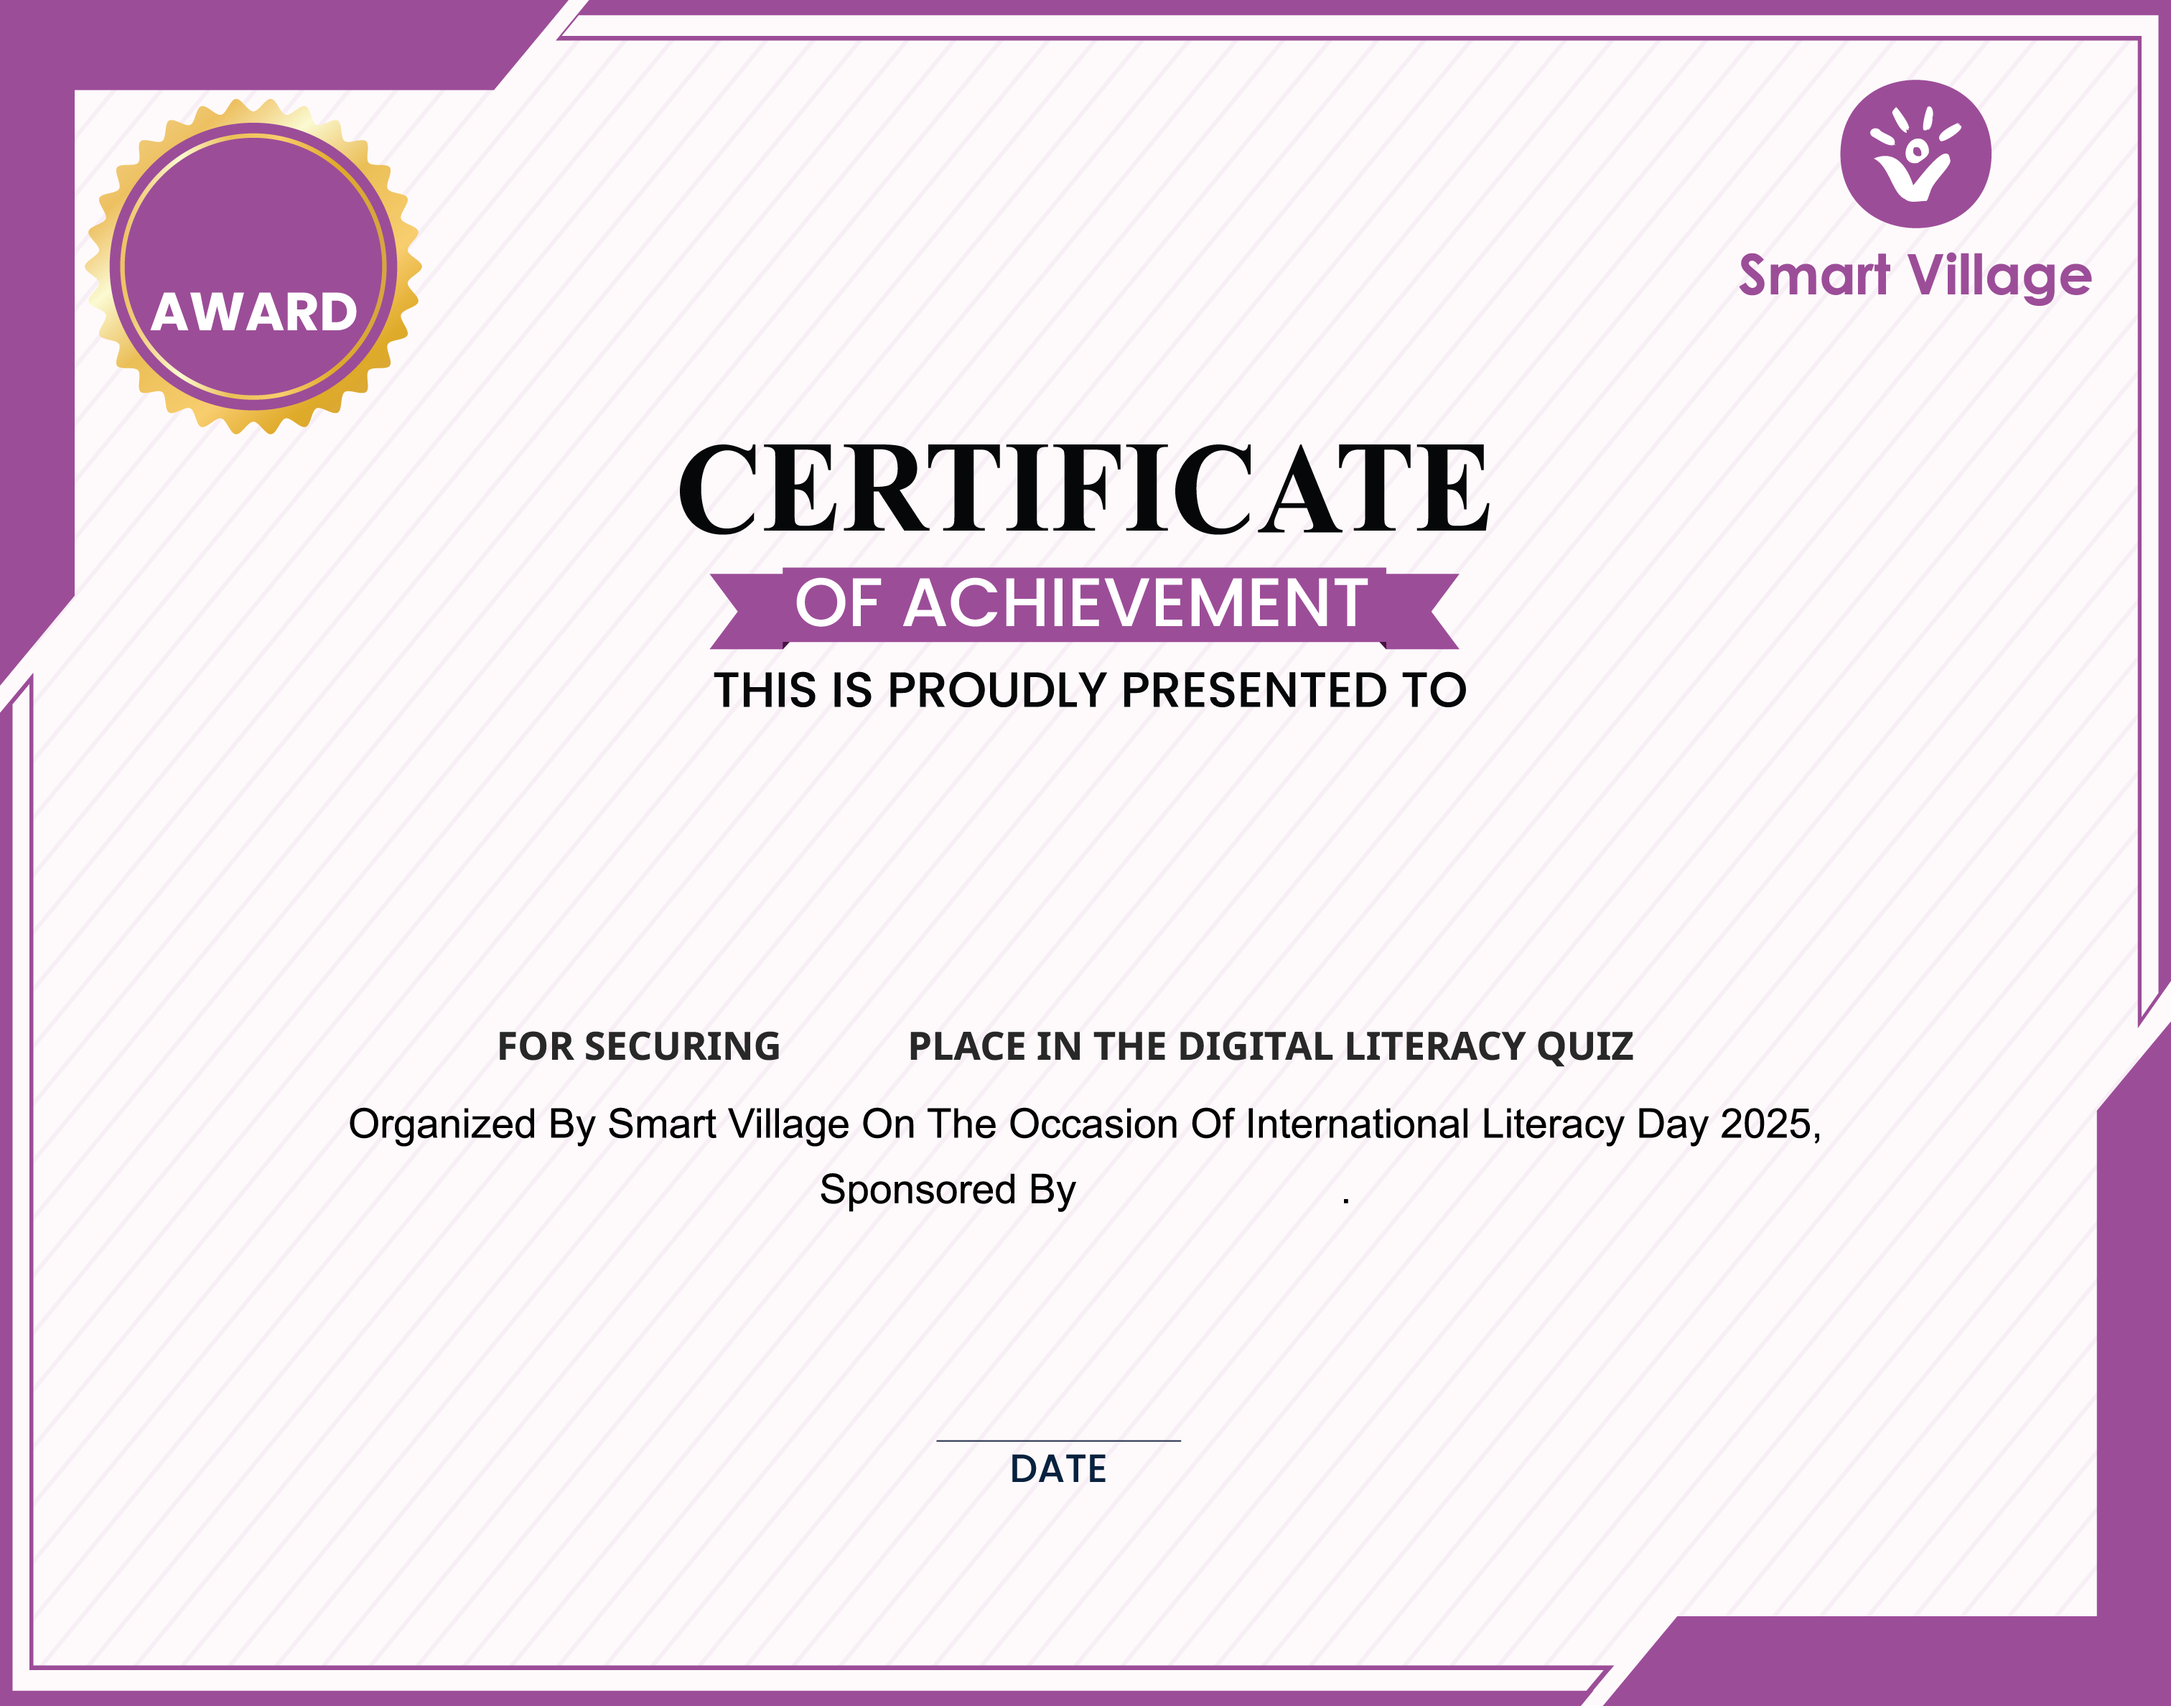
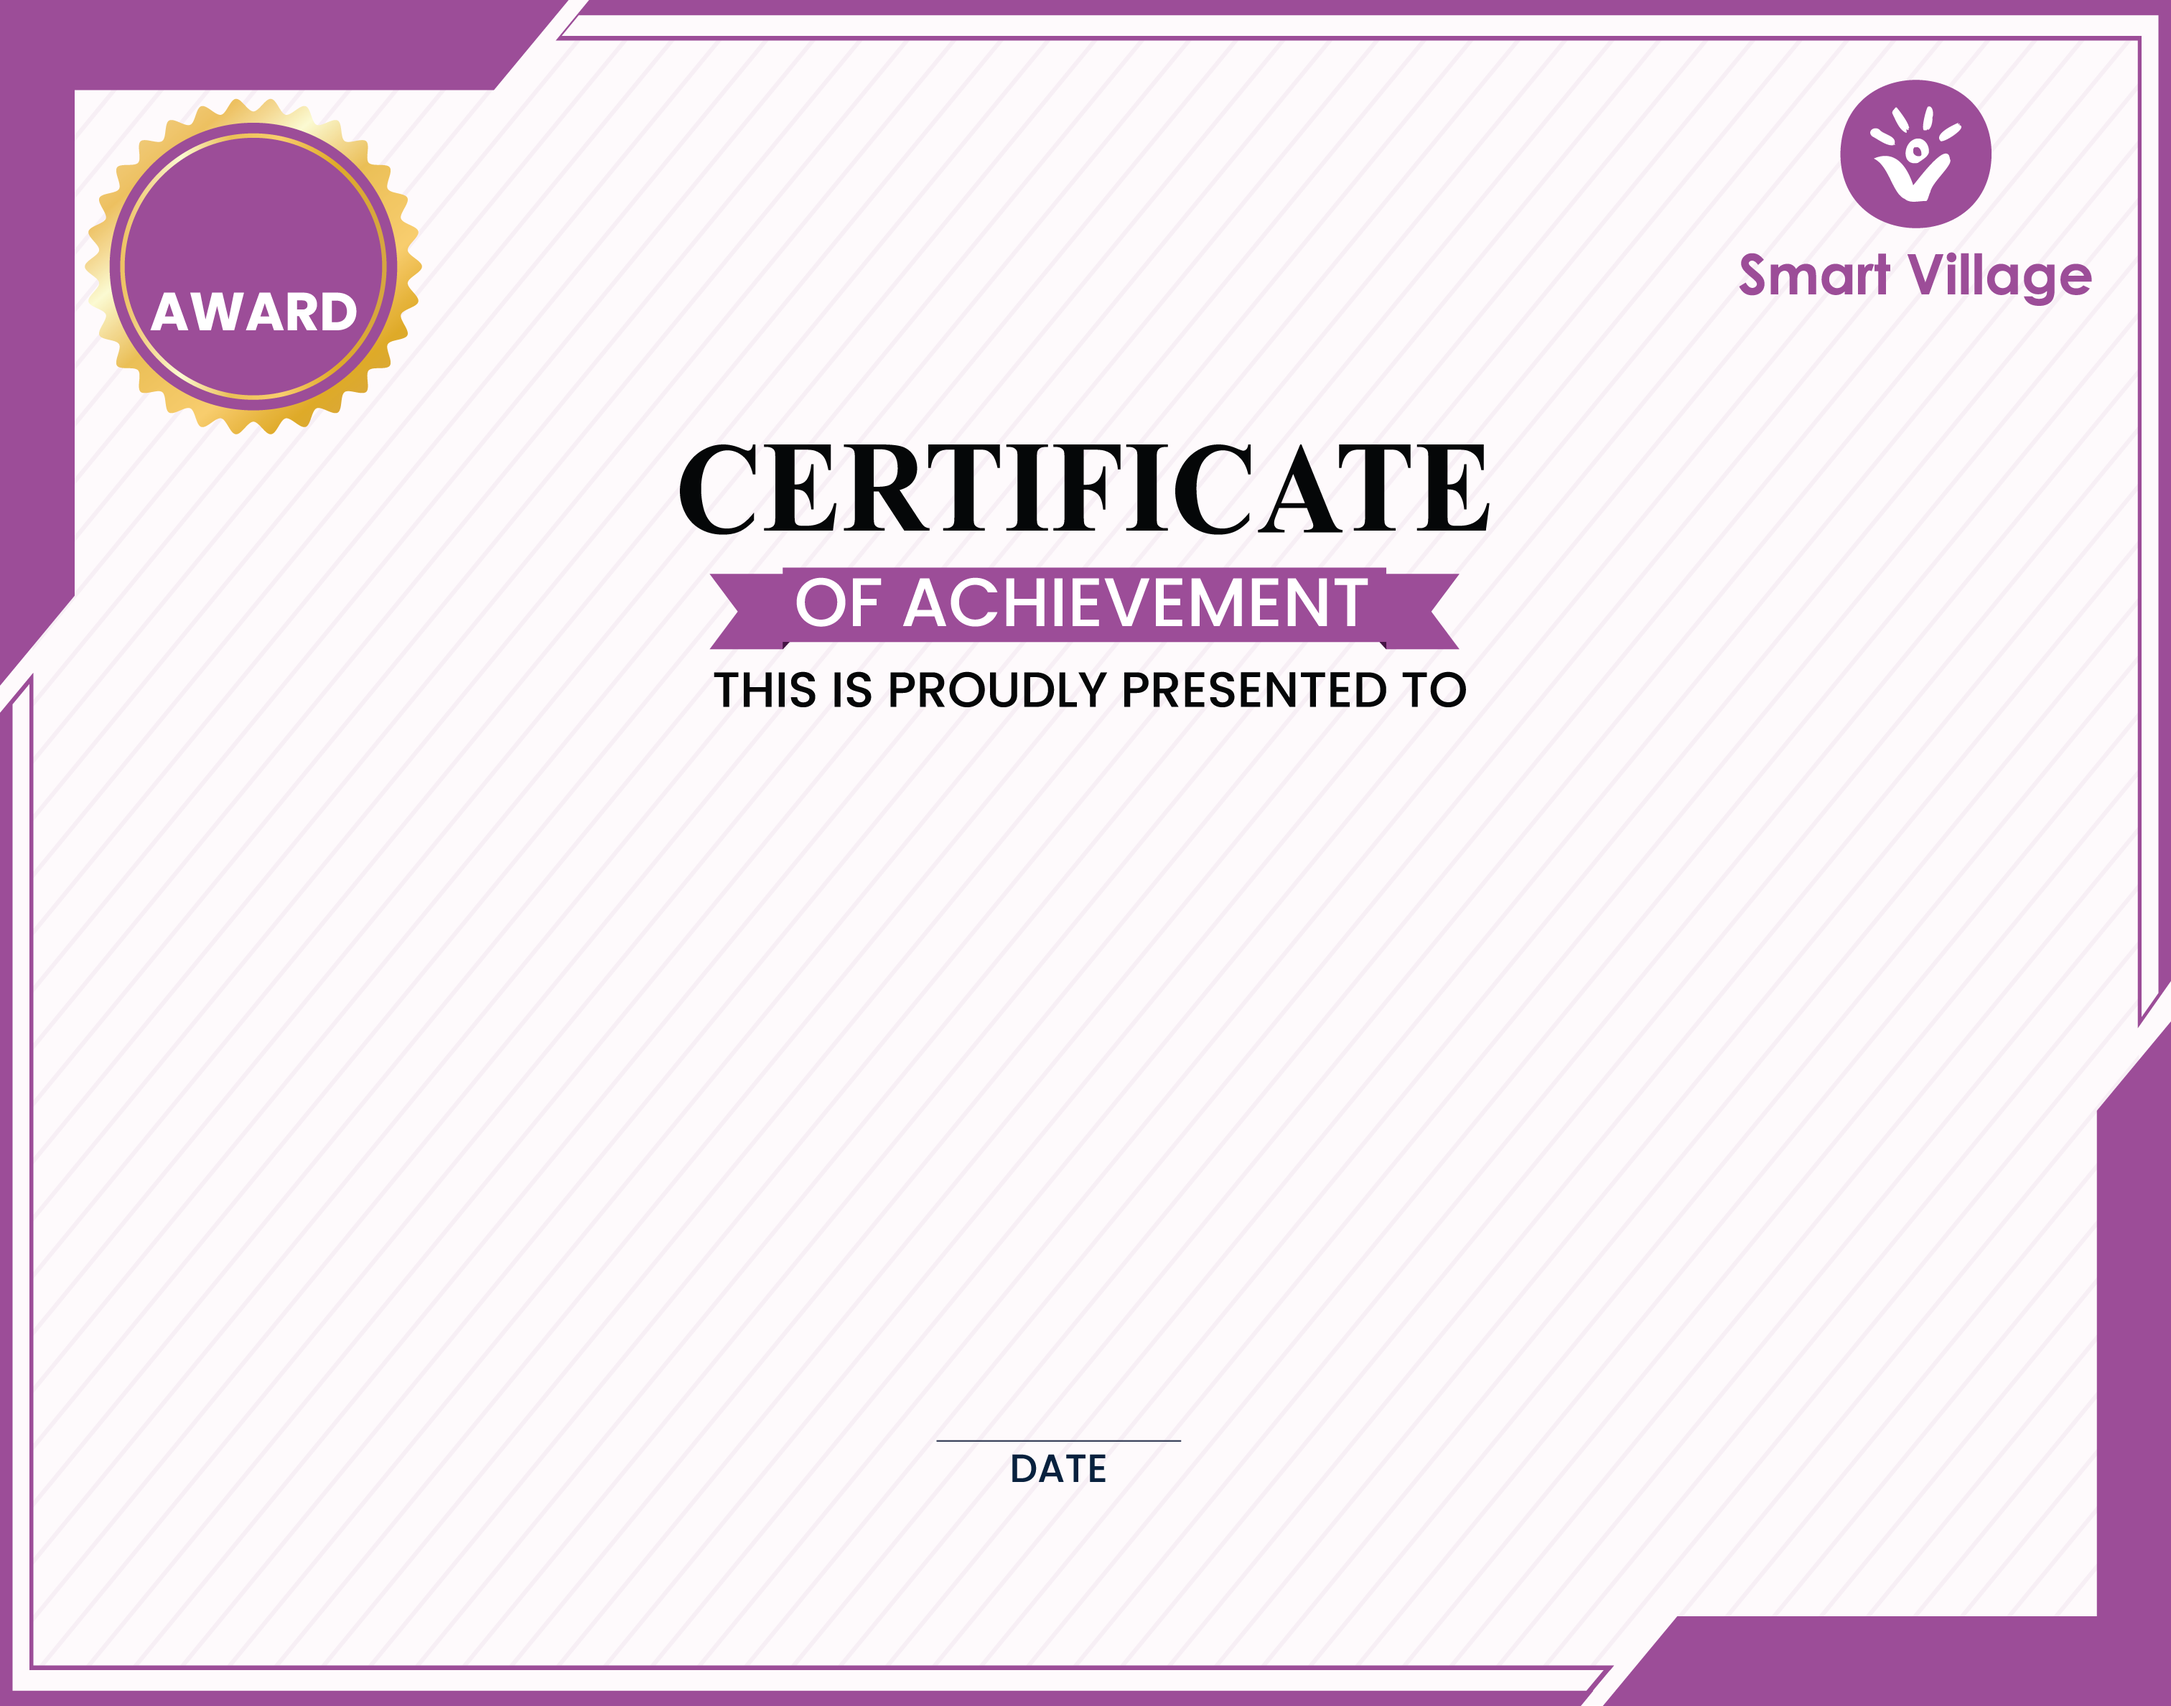
added

Changed region(s): [[0.1554, 0.654, 0.8393, 0.7163], [0.4041, 0.5918, 0.746, 0.6229], [0.2176, 0.5918, 0.373, 0.6229]]

diff --git a/src/app/(all-dashboard)/admin/_components/certificateModal.tsx b/src/app/(all-dashboard)/admin/_components/certificateModal.tsx
@@ -28,9 +28,10 @@ export default function CertificateModal({
     { name: "", signature: "", designation: "" },
     { name: "", signature: "", designation: "" },
   ]);
-  const [organization, setOrganization] = React.useState([
+  const [sponsored, setSponsored] = React.useState([
     { name: "", signature: "" },
   ]);
+  const [organized, setOrganized] = React.useState([{ name: "", origin: "" }]);
 
   console.log("Participant in modal:", participant);
 
@@ -114,35 +115,38 @@ export default function CertificateModal({
     return await toPng(ref.current, { pixelRatio: 2, cacheBust: true });
   };
 
+  // const downloadPDF = async () => {
+  //   const url = await capture();
+  //   if (!url) return;
+
+  //   const pdf = new jsPDF("l", "mm", "a4");
+  //   const img = new window.Image();
+  //   img.src = url;
+  //   img.onload = () => {
+  //     const w = pdf.internal.pageSize.getWidth();
+  //     const h = (img.height * w) / img.width;
+  //     pdf.addImage(url, "PNG", 0, 0, w, h);
+  //     pdf.save(`${participant?.user?.fullNameEnglish}.pdf`);
+  //   };
+  // };
+
   const downloadPDF = async () => {
     const url = await capture();
     if (!url) return;
 
-    const pdf = new jsPDF("l", "mm", "a4");
     const img = new window.Image();
     img.src = url;
     img.onload = () => {
-      const w = pdf.internal.pageSize.getWidth();
-      const h = (img.height * w) / img.width;
-      pdf.addImage(url, "PNG", 0, 0, w, h);
+      const pdfWidth = 297; // landscape A4 width in mm
+      const pdfHeight = (img.height * pdfWidth) / img.width; // maintain aspect ratio
+
+      // Create PDF with dynamic height
+      const pdf = new jsPDF("l", "mm", [pdfWidth, pdfHeight]);
+
+      pdf.addImage(url, "PNG", 0, 0, pdfWidth, pdfHeight);
       pdf.save(`${participant?.user?.fullNameEnglish}.pdf`);
     };
   };
-
-  // const uploadImgBB = async () => {
-  //   const url = await capture();
-  //   if (!url) return;
-  //   const base64 = url.split(",")[1];
-  //   const fd = new FormData();
-  //   fd.append("image", base64);
-  //   fd.append("key", "4c7e773ceec6622d7f2c91c17d0e0b71");
-  //   const res = await fetch("https://api.imgbb.com/1/upload", {
-  //     method: "POST",
-  //     body: fd,
-  //   });
-  //   const json = await res.json();
-  //   alert(json.success ? "Uploaded!" : "Failed");
-  // };
 
   const uploadImgBB = async () => {
     const url = await capture();
@@ -246,7 +250,7 @@ export default function CertificateModal({
                 />
               </div>
             ))}
-            {organization.map((s, i) => (
+            {sponsored.map((s, i) => (
               <div key={i} className="p-4 border rounded bg-indigo-50">
                 <Label>Sponsored By {i + 1}</Label>
 
@@ -254,9 +258,24 @@ export default function CertificateModal({
                   placeholder="Name"
                   value={s.name}
                   onChange={(e) => {
-                    const u = [...organization];
+                    const u = [...sponsored];
                     u[i].name = e.target.value;
-                    setOrganization(u);
+                    setSponsored(u);
+                  }}
+                />
+              </div>
+            ))}
+            {organized.map((s, i) => (
+              <div key={i} className="p-4 border rounded bg-indigo-50">
+                <Label>Organized By {i + 1}</Label>
+
+                <Input
+                  placeholder="Name"
+                  value={s.name}
+                  onChange={(e) => {
+                    const u = [...organized];
+                    u[i].name = e.target.value;
+                    setOrganized(u);
                   }}
                 />
               </div>
@@ -312,31 +331,34 @@ export default function CertificateModal({
               );
             })}
 
-            {organization.map((s, i) => {
-              const pos = [{ b: "28%", l: "50%" }][i];
-              return (
-                <div
-                  key={i}
-                  className="absolute w-auto "
-                  style={{
-                    bottom: pos?.b,
-                    left: pos?.l,
-
-                    color: "#3d3b3c",
-                  }}
-                >
-                  <span className="text-lg font-bold !text-uppercase">
+            <div className="absolute bottom-[29%] w-6/8 left-1/2 -translate-x-1/2 text-center">
+              <h1>
+                For outstanding performance and achieving the{" "}
+                <span className="font-bold">
+                  {getOrdinal(participant?.rank)}
+                </span>{" "}
+                in the{" "}
+                <span className="font-bold capitalize">
+                  {participant?.quiz?.title}
+                </span>
+                . Your achievement is a reflection of your hard work and
+                dedication. Congratulations and best wishes! — Organized by{" "}
+                {organized.map((s, i) => (
+                  <span key={i} className="text-lg font-bold capitalize">
                     {s.name || "Name"}
+                    {i !== organized.length - 1 && ", "}
                   </span>
-                </div>
-              );
-            })}
-
-            <div className="absolute top-[59%] left-[36.8%]  font-semibold text-gray-700">
-              <span className="text-lg !text-uppercase">
-                {getOrdinal(participant?.rank)}
-              </span>
+                ))}{" "}
+                & sponsored by{" "}
+                {sponsored.map((s, i) => (
+                  <span key={i} className="text-lg font-bold capitalize">
+                    {s.name || "Name"}
+                    {i !== sponsored.length - 1 && ", "}
+                  </span>
+                ))}
+              </h1>
             </div>
+
             <div
               className="absolute bottom-[16%] left-[44%]"
               style={{ color: "#413a41ce" }}
